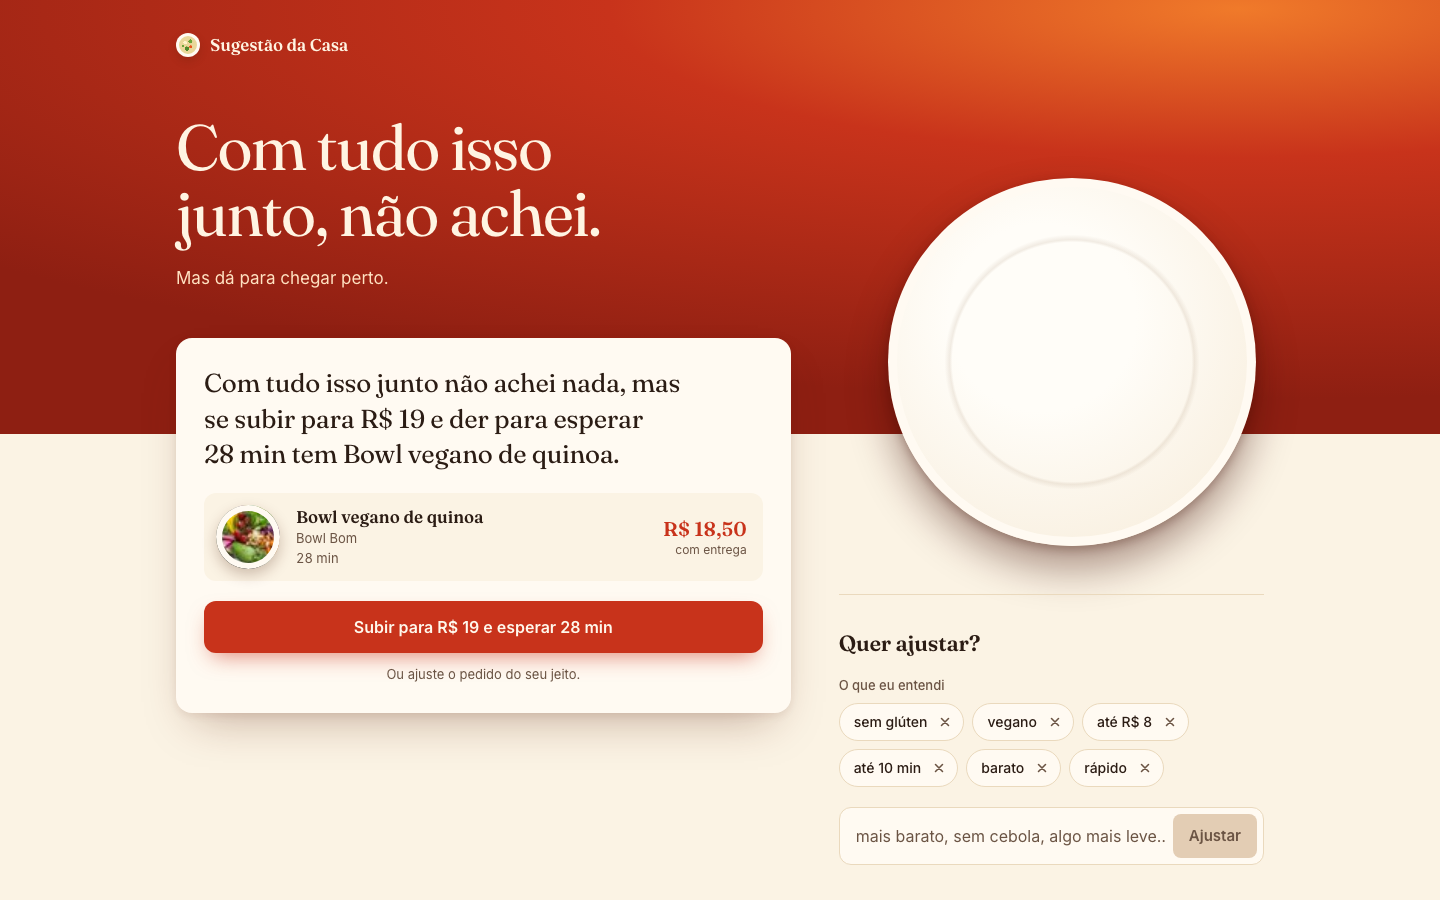
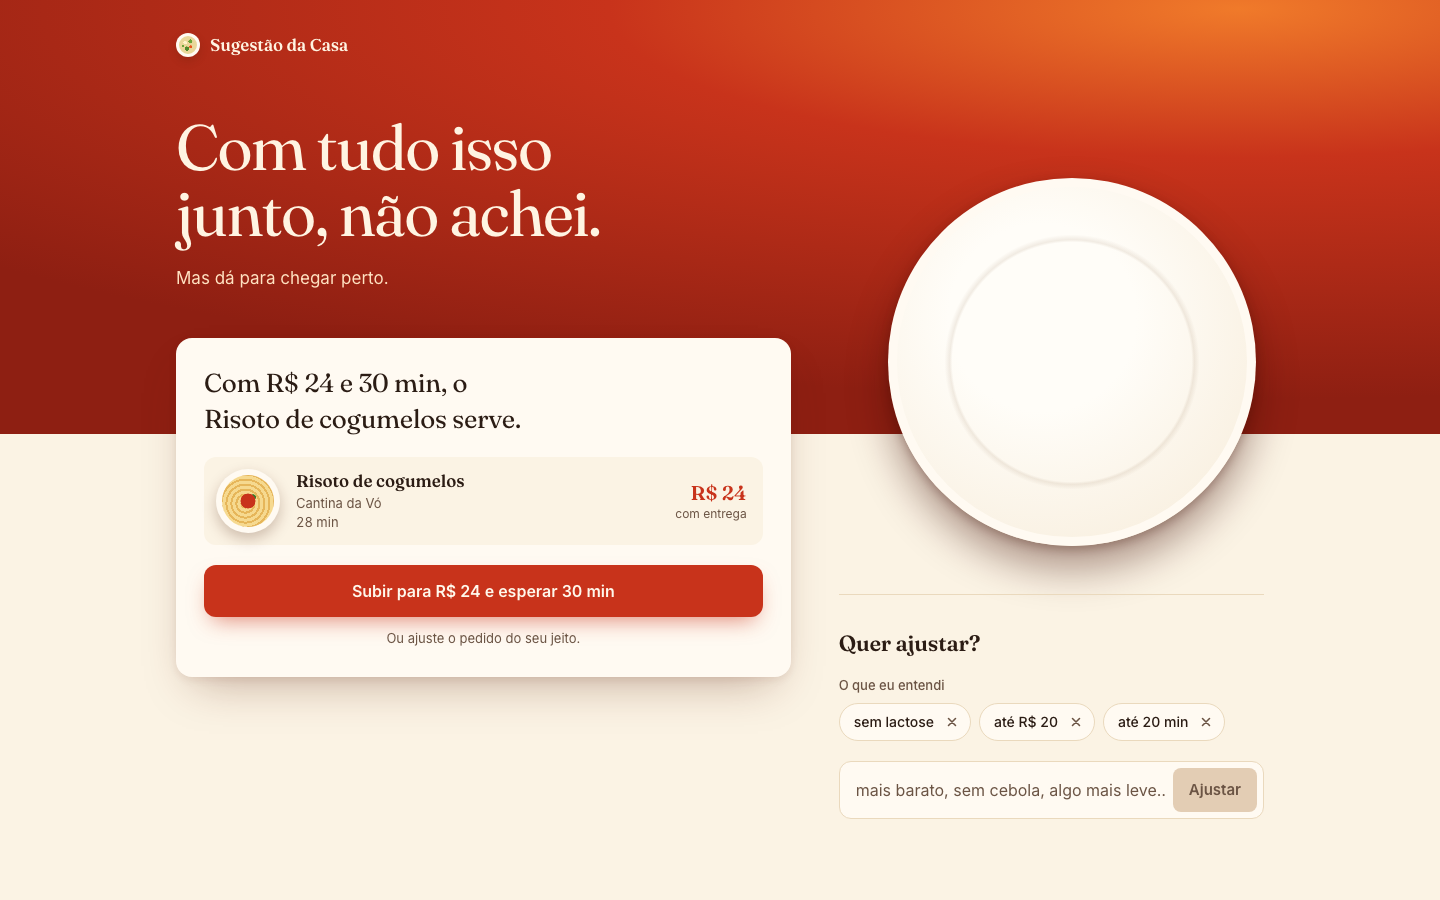
docs: regra de frutos do mar, checklist antes do deploy e captura sem resultado

Changed region(s): [[0.125, 0.4044, 0.5625, 0.8089], [0.5938, 0.84, 0.875, 0.9644], [0.625, 0.7778, 0.8438, 0.8089]]

diff --git a/README.md b/README.md
@@ -92,7 +92,7 @@ Testes:
 
 ```bash
 cd backend && uv run pytest -q && uv run ruff check .
-cd frontend && npm test && npm run lint && npm run build && npx playwright test
+cd frontend && npm test && npm run lint && npm run build && npm run test:e2e
 ```
 
 Os testes de ponta a ponta (Playwright, desktop 1440x900 e iPhone 13) interceptam a API com respostas fixas e cobrem o fluxo principal, a proposta aceita quando não há resultado, o selo do modo demonstração, `prefers-reduced-motion` e o foco do carrinho (que é um `<dialog>` nativo). Eles sobem o frontend na porta 3100; se já houver um servidor ali, ele é reaproveitado.
@@ -101,11 +101,19 @@ Os testes de ponta a ponta (Playwright, desktop 1440x900 e iPhone 13) intercepta
 
 - **Latência local.** O qwen2.5:7b no Ollama leva cerca de 20 s por resposta na minha máquina. É por isso que os tempos limite locais são altos (45 s no backend, 60 s no frontend). O padrão de 8 s e 12 s existe para um provedor hospedado, que ainda não medi.
 - **Guarda no código, não no prompt.** Restrições alimentares não dependem de o modelo obedecer. A avaliação confirma a guarda em 100% das frases, mas só com os dois modelos testados.
+- **"Sem frutos do mar" exclui peixe.** Para quem tem essa restrição, peixe também fica de fora (salmão, atum, tilápia, bacalhau e afins), além de crustáceos e moluscos.
 - **Modo demonstração é mais simples.** Sem o LLM, a interpretação é por palavras-chave e os textos são prontos. O selo deixa isso claro.
 - **Migrations ainda não aplicadas num Supabase real.** O schema (com RLS e leitura pública) e o seed estão em `supabase/`, mas hoje o backend lê `supabase/cardapio.json` quando não há credenciais. O repositório do Supabase está implementado e testado com um cliente falso, não contra um projeto de verdade.
 - **Sem deploy ainda.** Por isso o link público está como "em breve" e o tempo de resposta num ambiente hospedado não foi medido.
 - **Cardápio fictício.** Restaurantes e pratos são inventados para a demonstração. Só 6 dos 107 pratos têm foto (Unsplash); os demais usam um prato desenhado.
 - **Pedido simulado.** Não há pagamento nem integração com restaurantes.
+
+## Antes do deploy
+
+- Aplicar as três migrations de `supabase/migrations/` no projeto Supabase, em ordem.
+- Rodar `supabase/seed.sql` (gerado por `python supabase/gerar_seed.py`).
+- Configurar no backend `LLM_BASE_URL`, `LLM_API_KEY`, `LLM_MODEL`, `SUPABASE_URL`, `SUPABASE_ANON_KEY` e `CORS_ORIGENS` (com a origem do frontend publicado).
+- Configurar no frontend `NEXT_PUBLIC_API_URL` com a URL pública do backend.
 
 ## Próximos passos
 
